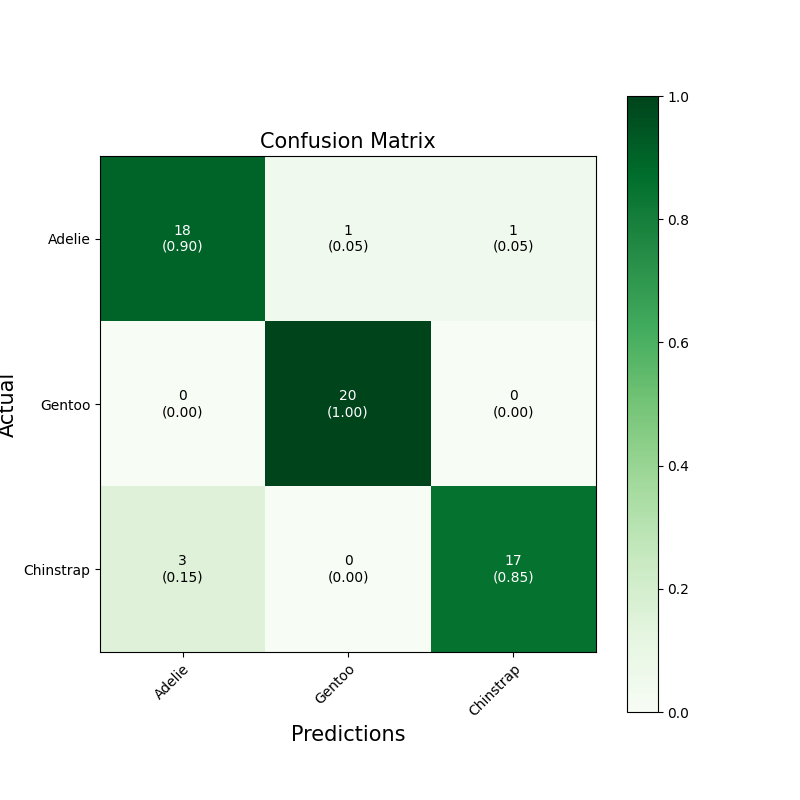
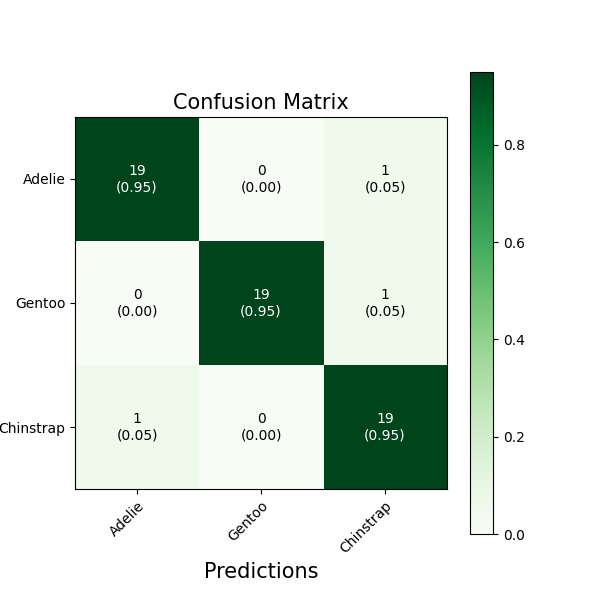
calculating Training accuracy

diff --git a/tasks/task3/network.py b/tasks/task3/network.py
@@ -10,62 +10,46 @@ class Network:
         self.bias = bias  # int
         self.layers_num = layers_num + 1
         self.layers_array = list()
-
+        self.classes = ['Adelie', 'Gentoo', 'Chinstrap']
         # Hidden layers
         for i in range(len(neurons_num)):
             if i == 0:
                 self.layers_array.append(Layer(neurons_num[i], 5, self.bias, self.choice, False))
             else:
                 self.layers_array.append(Layer(neurons_num[i], neurons_num[i - 1], self.bias, self.choice, False))
-
         # Output layer
         self.layers_array.append(Layer(3, neurons_num[-1], self.bias, self.choice, True))
 
     def learning(self, train):
-
         # Iterate the epochs
         for i in range(self.epochs):
             print("Epoch: ", i + 1)
-
             # Iterate the train dataset
             for count in range(len(train)):
                 # Row features
                 row = train.iloc[count][1:].tolist()
-
                 # Forward step
-
                 # FNet first layer
                 f_net = self.layers_array[0].forward(row)
-
                 # Iterate the layers
                 for j in range(1, len(self.layers_array)):
                     f_net = self.layers_array[j].forward(f_net)
-
                 # Backward step
-
                 # One hot encoding to the actual output
                 target = list()
-
                 # Classes list
-                classes = ['Adelie', 'Gentoo', 'Chinstrap']
-
-                for x in classes:
+                for x in self.classes:
                     if train['species'][count] == x:
                         target.append(1)
                     else:
                         target.append(0)
-
                 # Reversing layers to execute the backpropagation
                 layers_reversed = self.layers_array[::-1]
-
                 # Last layer
                 sigma, weights = layers_reversed[0].backward(1, 1, target)
-
                 for j in range(1, len(layers_reversed)):
                     sigma, weights = layers_reversed[j].backward(sigma, weights, target)
-
                 # Update step
-
                 # First layer
                 f_net = self.layers_array[0].update(row, self.rate)
                 f_net.append(self.bias)
@@ -73,23 +57,37 @@ class Network:
                 for j in range(1, len(self.layers_array)):
                     f_net = self.layers_array[j].update(f_net, self.rate)
                     f_net.append(self.bias)
+        cnt = 0
+        for count in range(len(train)):
+            # Row features
+            row = train.iloc[count][1:].tolist()
+            # Forward step
+            # FNet first layer
+            f_net = self.layers_array[0].forward(row)
+            # Iterate the layers
+            for j in range(1, len(self.layers_array)):
+                f_net = self.layers_array[j].forward(f_net)
+                if j == self.layers_num - 1:
+                    mx = -1
+                    idx = -1
+                    for j in range(len(f_net)):
+                        if f_net[j] > mx:
+                            mx = f_net[j]
+                            idx = j
+                    specie = self.classes.index(train['species'][count])
+                    if specie == idx:
+                        cnt += 1
+        print("Training acc= ", cnt / len(train))
 
     def testing(self, test):
         cnt = 0
-
-        classes = ['Adelie', 'Gentoo', 'Chinstrap']
-
         conf_matrix = np.zeros([3, 3], dtype=int)
-
         for count in range(len(test)):
             row = test.iloc[count][1:].tolist()
-
             # Forward step
-
             f_net = self.layers_array[0].forward(row)
             for i in range(1, len(self.layers_array)):
                 f_net = self.layers_array[i].forward(f_net)
-
                 if i == self.layers_num - 1:
                     mx = -1
                     idx = -1
@@ -97,12 +95,9 @@ class Network:
                         if f_net[j] > mx:
                             mx = f_net[j]
                             idx = j
-
-                    specie = classes.index(test['species'][count])
+                    specie = self.classes.index(test['species'][count])
                     conf_matrix[specie][idx] += 1
-
                     if specie == idx:
                         cnt += 1
-
         acc = cnt / len(test)
-        return conf_matrix, classes, acc
+        return conf_matrix, self.classes, acc

diff --git a/tasks/task3/bonus/network.py b/tasks/task3/bonus/network.py
@@ -69,6 +69,31 @@ class Network:
 
                 for j in range(1, len(self.layers_array)):
                     f_net = self.layers_array[j].update(f_net, self.rate)
+        cnt = 0
+        for count in range(len(train)):
+            # Row features
+            row = train.iloc[count][1:].tolist()
+
+            # Forward step
+
+            # FNet first layer
+            f_net = self.layers_array[0].forward(row)
+
+            # Iterate the layers
+
+            for j in range(1, len(self.layers_array)):
+                f_net = self.layers_array[j].forward(f_net)
+                if j == self.layers_num - 1:
+                    mx = -1
+                    idx = -1
+                    for j in range(len(f_net)):
+                        if f_net[j] > mx:
+                            mx = f_net[j]
+                            idx = j
+                    actual = train['label'][count]
+                    if actual == idx:
+                        cnt += 1
+        print("Training acc= ", cnt / len(train))
 
     def testing(self, test):
         cnt = 0

diff --git a/tasks/utils/visualization.py b/tasks/utils/visualization.py
@@ -10,7 +10,7 @@ warnings.filterwarnings("ignore")
 def generate_conf_mat(mat, classes):
     fig, ax = plot_confusion_matrix(conf_mat=mat,
                                     class_names=classes,
-                                    figsize=(8, 8),
+                                    figsize=(6, 6),
                                     cmap=plt.cm.Greens,
                                     show_absolute=True,
                                     show_normed=True,

diff --git a/tasks/gui/gui_output.py b/tasks/gui/gui_output.py
@@ -11,8 +11,8 @@ def show_output(conf_matrix, classes, acc):
     output_window = tk.Tk()
     output_window.title('Output')
 
-    w = 1200  # width for the Tk root
-    h = 900  # height for the Tk root
+    w = 900  # width for the Tk root
+    h = 800  # height for the Tk root
 
     # get screen width and height
     ws = output_window.winfo_screenwidth()  # width of the screen
